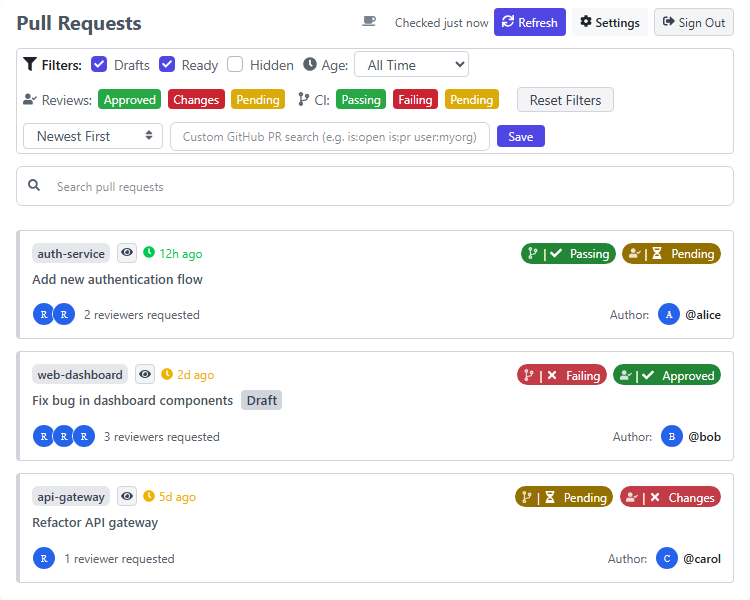
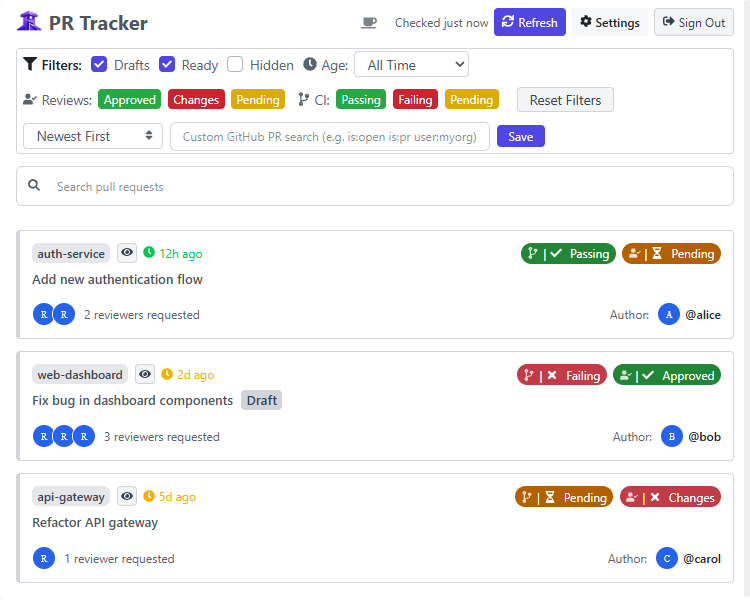
fix: brighten pending badges and refresh README screenshots

diff --git a/tests/readme-screenshots.e2e.test.ts b/tests/readme-screenshots.e2e.test.ts
@@ -1,0 +1,90 @@
+// After npm run build:e2e, capture with:
+// node node_modules/vitest/vitest.mjs run --config vitest.e2e.config.ts tests/readme-screenshots.e2e.test.ts
+import { expect, it } from 'vitest';
+import {
+    installGitHubApiMock,
+    openSeededPopup,
+    readAppData,
+    waitForText,
+    writeAppData,
+} from './e2e/harness.js';
+import { appData, FIXED_UPDATED_AT, POPULATED_PRS } from './e2e/fixtures.js';
+
+const demoPullRequests = [
+    { ...POPULATED_PRS[0], created_at: '2026-01-15T00:00:00.000Z' },
+    {
+        ...POPULATED_PRS[1],
+        created_at: '2026-01-13T12:00:00.000Z',
+        requested_reviewers: POPULATED_PRS[1].requested_reviewers.slice(0, 3),
+    },
+    { ...POPULATED_PRS[2], created_at: '2026-01-10T12:00:00.000Z' },
+];
+
+it.each(['light', 'dark'] as const)(
+    'captures deterministic README screenshots in %s',
+    async (theme) => {
+        const github = await installGitHubApiMock();
+        const data = appData(demoPullRequests);
+        try {
+            const page = await openSeededPopup(github, { theme, data });
+            try {
+                await page.setViewport({ width: 750, height: 600 });
+                // Wait for startup refresh before restoring the exact demo statuses.
+                await expect
+                    .poll(async () => (await readAppData(page)).lastUpdated)
+                    .not.toBe(FIXED_UPDATED_AT);
+                // Freeze relative age/freshness labels without changing production code.
+                await page.evaluate((timestamp) => {
+                    Date.now = () => Date.parse(timestamp);
+                }, FIXED_UPDATED_AT);
+                await writeAppData(page, {
+                    ...data,
+                    lastSuccessfulRefreshAt: FIXED_UPDATED_AT,
+                });
+                await waitForText(
+                    page,
+                    '[data-testid="last-checked"]',
+                    'Checked just now'
+                );
+                await waitForText(page, 'li', '12h ago');
+                await page.waitForSelector('[data-ci-status="failing"]');
+                await page.evaluate(async () => {
+                    await document.fonts.ready;
+                    await Promise.all(
+                        Array.from(document.images).map((image) =>
+                            image.decode()
+                        )
+                    );
+                });
+                expect(await page.$$('li')).toHaveLength(3);
+                expect(
+                    await page.$eval('header h2', (title) =>
+                        title.textContent?.trim()
+                    )
+                ).toBe('PR Tracker');
+                expect(
+                    await page.$eval(
+                        'header',
+                        (header) => header.getBoundingClientRect().height
+                    )
+                ).toBe(28);
+                await page.screenshot({
+                    path: `docs/assets/readme/dashboard-${theme}.png`,
+                });
+                if (theme === 'dark') {
+                    await page.click('[aria-label="Settings"]');
+                    await page.waitForSelector(
+                        '[role="dialog"][aria-label="Settings"]'
+                    );
+                    await page.screenshot({
+                        path: 'docs/assets/readme/settings-dark.png',
+                    });
+                }
+            } finally {
+                await page.close();
+            }
+        } finally {
+            await github.close();
+        }
+    }
+);

diff --git a/tests/e2e/popup-states.e2e.test.ts b/tests/e2e/popup-states.e2e.test.ts
@@ -198,6 +198,13 @@ describe('popup state journeys', () => {
                                     size: computed.fontSize,
                                     lineHeight: computed.lineHeight,
                                     foreground: computed.color,
+                                    background: computed.backgroundColor,
+                                    pending:
+                                        badge.getAttribute('data-ci-status') ===
+                                            'pending' ||
+                                        badge.getAttribute(
+                                            'data-review-status'
+                                        ) === 'pending',
                                     textColours: Array.from(
                                         badge.querySelectorAll('span')
                                     ).map(
@@ -279,6 +286,9 @@ describe('popup state journeys', () => {
                         expect(badge.size).toBe('12px');
                         expect(badge.lineHeight).toBe('16px');
                         expect(badge.foreground).toBe('rgb(255, 255, 255)');
+                        if (badge.pending) {
+                            expect(badge.background).toBe('rgb(180, 95, 0)');
+                        }
                         expect(badge.textColours).toEqual([
                             badge.foreground,
                             badge.foreground,

diff --git a/src/styles/tokens.css b/src/styles/tokens.css
@@ -72,7 +72,7 @@
     --popup-status-foreground: #ffffff;
     --popup-card-status-passing: #238636;
     --popup-card-status-failing: #c13c47;
-    --popup-card-status-pending: #947000;
+    --popup-card-status-pending: #b45f00;
     --popup-card-status-foreground: #ffffff;
     --popup-notification-enabled: #22c55e;
     --popup-error-background: #fee2e2;
